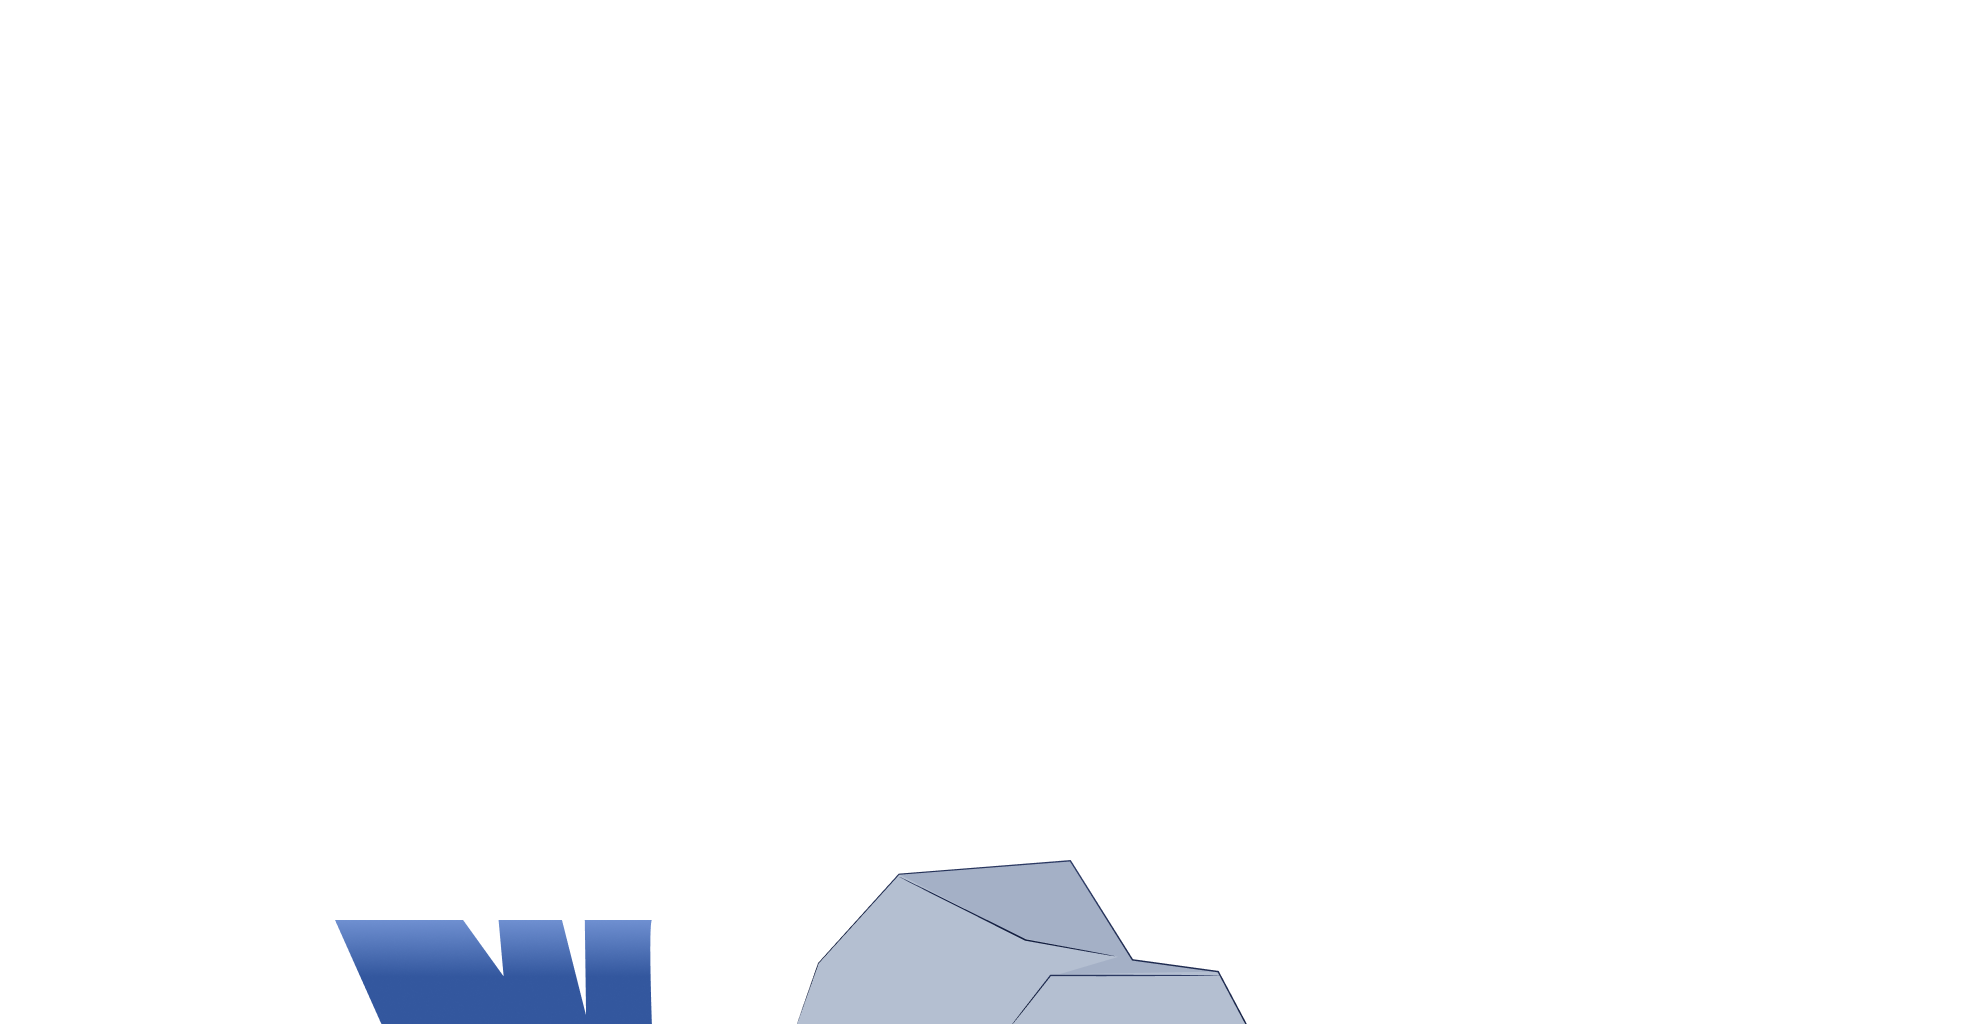
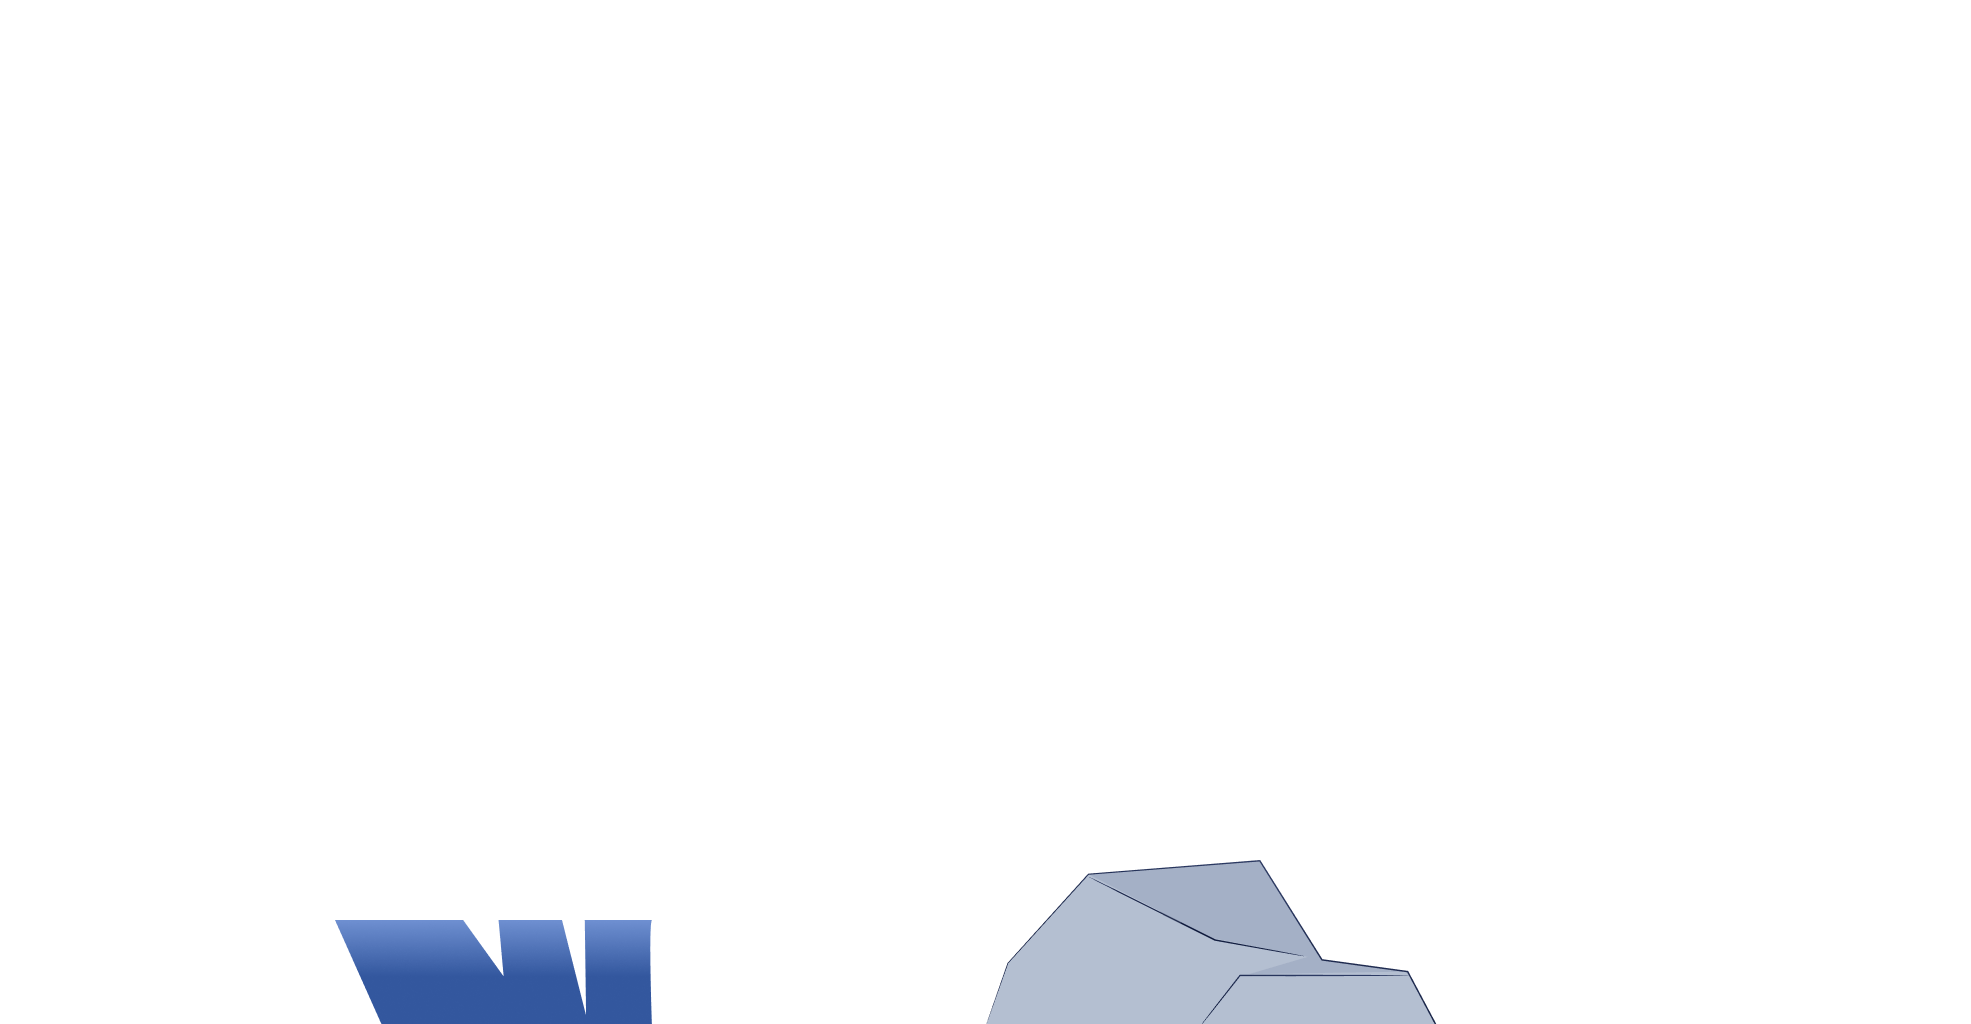
parallax updates chapter 13/14 (voices)

Changed region(s): [[0.4023, 0.8438, 0.7428, 1.0]]

diff --git a/components/Chapter13.vue b/components/Chapter13.vue
@@ -16,7 +16,7 @@
                 <img
                 @load="handleLoad"
                 @error="handleLoad"
-                :style="{ left: '90%'}"
+                :style="{ left: '358%'}"
                 class="b--ss-a__middle-items__parallax"
                 src="@/assets/img/chapter-13/middle-parallax.png"
                 alt="middle"
@@ -34,7 +34,7 @@
                 class="b--chapter13-a__content"
                 :class="'b--chapter13-a__content--' + `${this.lang}`"
                 ref="boxContent"
-                :style="{ left: '100%'}"
+                :style="{ left: '362%'}"
                 >
                     <v-card-f 
                         :title="chapter.intro_title" 
@@ -43,19 +43,19 @@
                         cardACustomClass="b--card-a--second"
                     />
                 </div> 
-                <div class="b--chapter13-a__artwork" ref="plantwater1" :style="{ left: '125%'}">
+                <div class="b--chapter13-a__artwork" ref="plantwater1" :style="{ left: '390%'}">
                     <div class="b--motion-m" :style="'background-image: url(' + require(`@/assets/img/chapter-13/plant_water.png`) + ')'">
                     </div>
                 </div>
-                <div class="b--chapter13-a__artwork b--chapter13-a__artwork--second" ref="plantwater2" :style="{ left: '170%'}">
+                <div class="b--chapter13-a__artwork b--chapter13-a__artwork--second" ref="plantwater2" :style="{ left: '435%'}">
                     <div class="b--motion-n"  :style="'background-image: url(' + require(`@/assets/img/chapter-13/plant_water_2.png`) + ')'">
                     </div>
                 </div>
-                <div class="b--chapter13-a__artwork b--chapter13-a__artwork--third" ref="lines" :style="{ left: '180%'}">
+                <div class="b--chapter13-a__artwork b--chapter13-a__artwork--third" ref="lines1" :style="{ left: '448%'}">
                     <div class="b--motion-k" :style="'background-image: url(' + require(`@/assets/img/chapter-13/lines_spritesheet.png`) + ')'">
                     </div>
                 </div>  
-                <div class="b--chapter13-a__artwork b--chapter13-a__artwork--fourth">
+                <div class="b--chapter13-a__artwork b--chapter13-a__artwork--fourth" ref="lines2" :style="{ left: '390%'}">
                     <div class="b--motion-k" v-lazy:background-image="
                     require(`@/assets/img/chapter-13/lines_spritesheet.png`)
                     ">
@@ -109,11 +109,12 @@ export default {
             var motion = [
                 { obj: this.$refs['parallax-bg'], intensity: 1 },
                 { obj: this.$refs['parallax-ft'], intensity: 65},
-                { obj: this.$refs['parallax-middle'], intensity: 10},
-                { obj: this.$refs['plantwater1'], intensity: 10},
-                { obj: this.$refs['plantwater2'], intensity: 10},
-                { obj: this.$refs['lines'], intensity: 10},
-                { obj: this.$refs['boxContent'], intensity: 10},
+                { obj: this.$refs['parallax-middle'], intensity: 40},
+                { obj: this.$refs['plantwater1'], intensity: 40},
+                { obj: this.$refs['plantwater2'], intensity: 40},
+                { obj: this.$refs['lines1'], intensity: 40},
+                { obj: this.$refs['lines2'], intensity: 40},
+                { obj: this.$refs['boxContent'], intensity: 40},
             ]
             motion.forEach((item) => {
                 this.parallaxMove({

diff --git a/components/Chapter11.vue b/components/Chapter11.vue
@@ -58,7 +58,7 @@
                 ref="parallax-bg" 
                 @load="handleLoad"
                 @error="handleLoad"
-                :style="{ left: '42 0%' }"
+                :style="{ left: '420%' }"
                 src="@/assets/img/chapter-11/back-parallax.png"
                 alt="back parallax"> 
                 <img class="b--ss-a__bg-items__back" 
